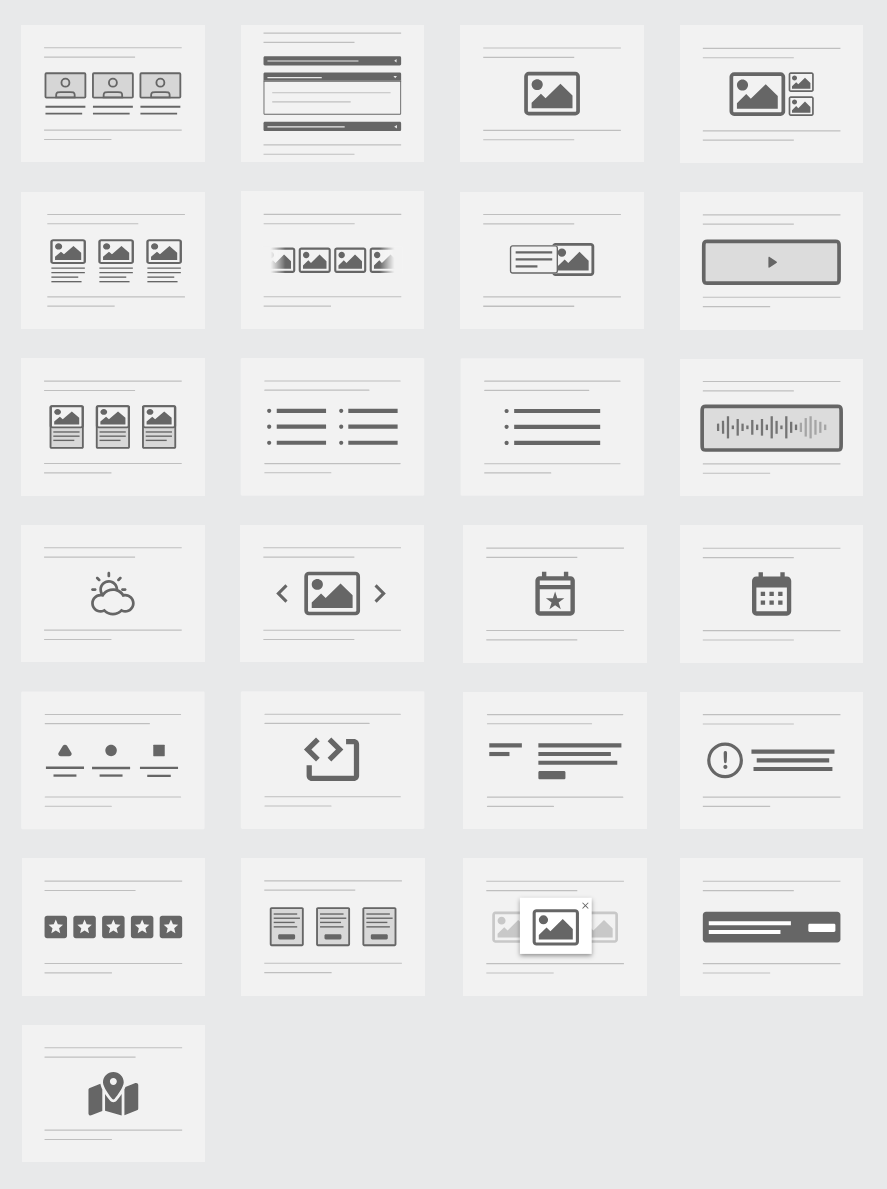
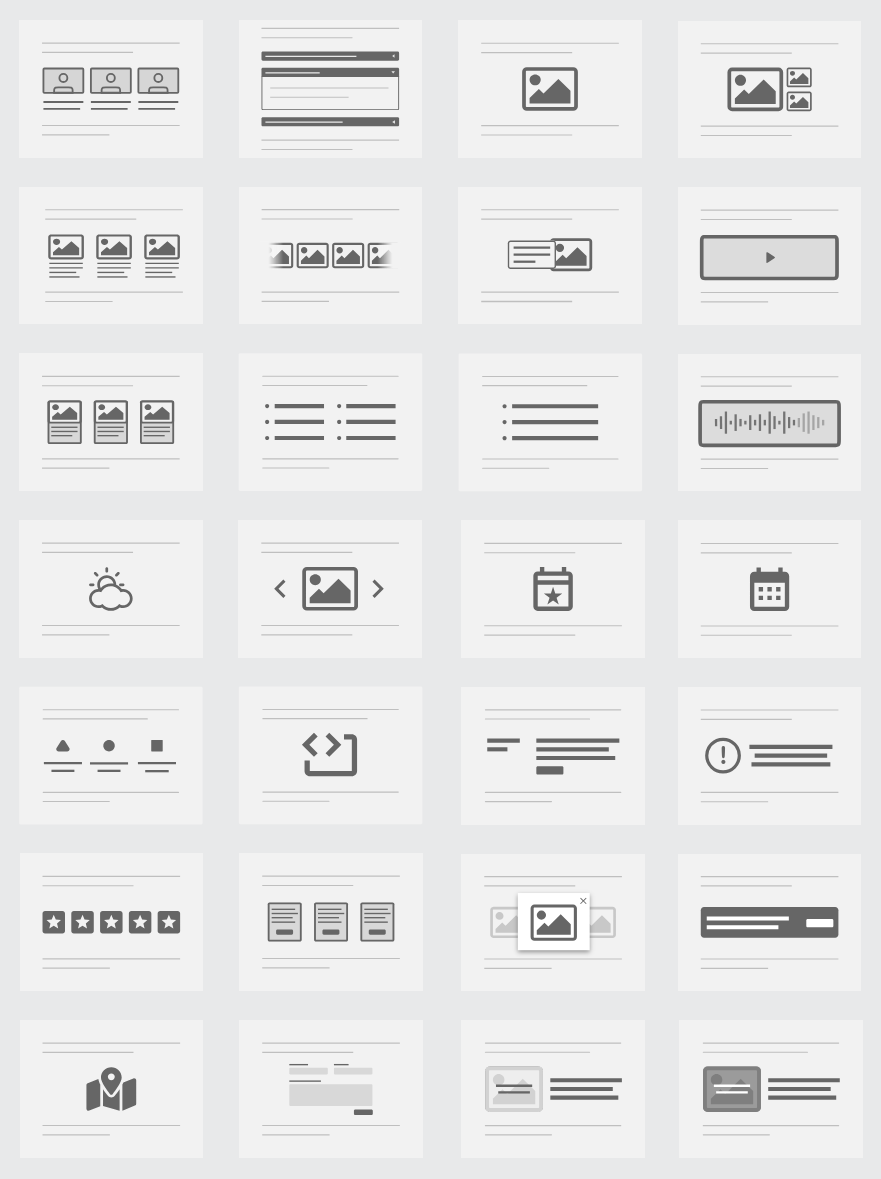
Add CalloutImage and CalloutImage (Reverse), update preview image, upate README

diff --git a/README.md b/README.md
@@ -15,6 +15,8 @@ SVGs created and edited using [PenPot](https://penpot.app/), an open source appl
 - Calendar Event
 - Call To Action
 - Callout Button
+- Callout Image
+- Callout Image (Reverse)
 - Card Over Image
 - Code/Embed
 - Image
